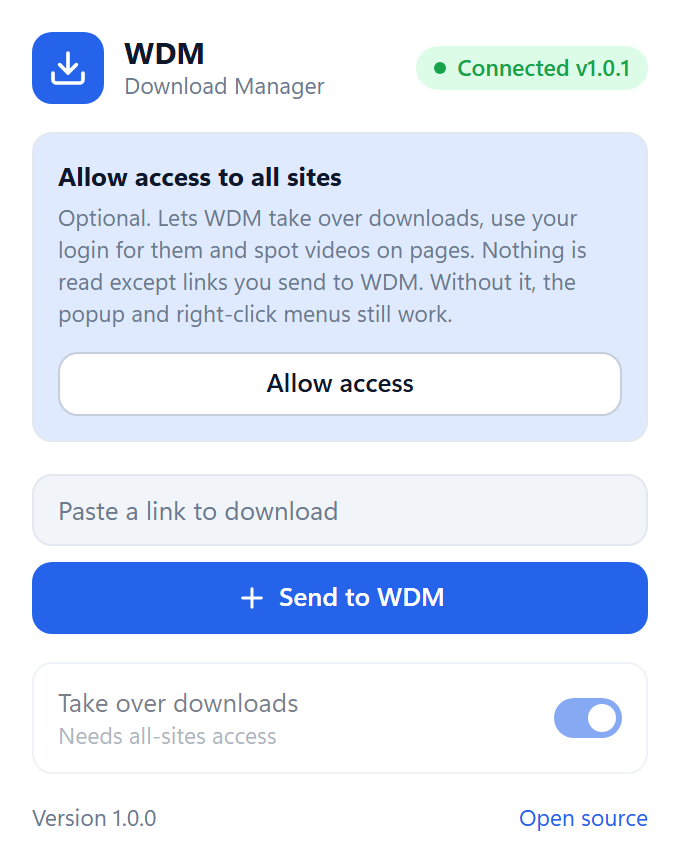
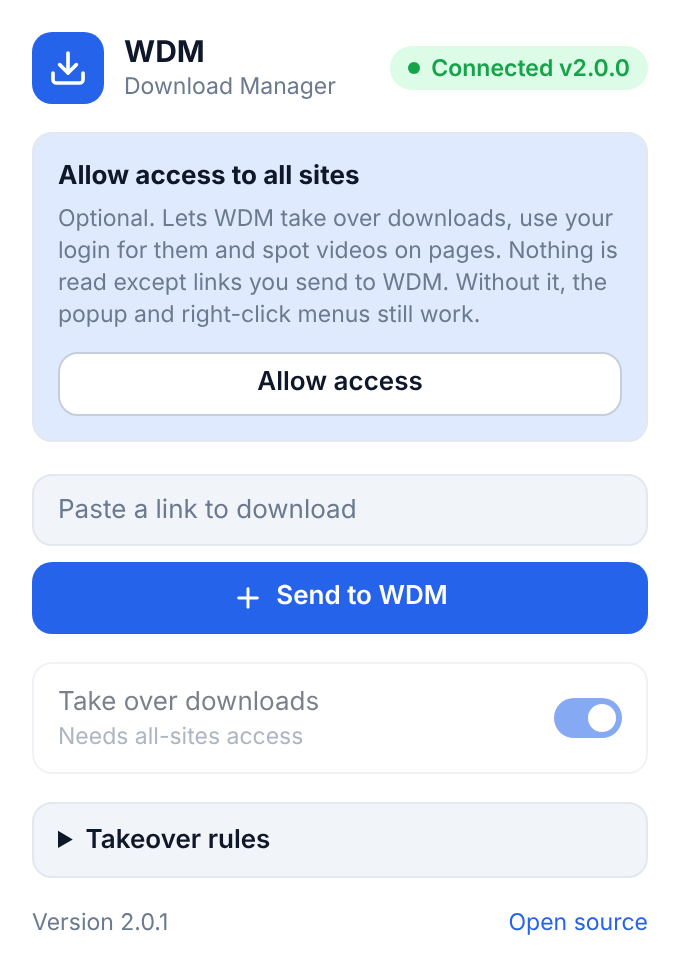
store media: takeover-rules screenshot, popup capture script, popup layout fix (extension 2.0.1)
- scripts/make-store-media.ps1: new screenshot set (takeover rules replaces batch), pre-flight check of source images, sizes printed, marquee text
- scripts/capture-extension-screens.mjs: renders the real popup (light/dark) with a mocked chrome API; fails on any popup error
- extension/popup.css: site button wraps long host names (found by rendering the popup), tighter rules spacing
- extension 2.0.1; docs: changelog, store listing history

Claude-Session: https://claude.ai/code/session_01T3Xu32FEzFHvyk3srvDTM6

diff --git a/extension/popup.css b/extension/popup.css
@@ -229,11 +229,12 @@ body.welcome .access { border-color: var(--accent); }
 .rules > summary { padding: 9px 12px; cursor: pointer; font-weight: 600; list-style-position: inside; }
 .rules > summary:focus-visible { outline: 2px solid var(--accent); outline-offset: 1px; border-radius: 10px; }
 .rules-body { padding: 0 12px 12px; }
-.lbl { display: block; margin: 10px 0 4px; font-size: 11.5px; color: var(--text-muted); }
-.rules .field { background: var(--bg); }
+.lbl { display: block; margin: 8px 0 3px; font-size: 11.5px; color: var(--text-muted); }
+.rules .field { height: 32px; background: var(--bg); }
 .rules-actions { display: flex; gap: 8px; margin-top: 12px; }
 .rules-actions .btn { flex: 1; margin-top: 0; }
 .hint { margin: 8px 0 0; font-size: 11px; color: var(--text-muted); }
 #rulesMsg:empty { display: none; }
 #siteBtn[hidden] { display: none; }
-#siteBtn { width: 100%; margin-top: 0; }
+/* the label ("Never take over downloads from <host>") can be long: let it wrap instead of overflowing a fixed height */
+#siteBtn { width: 100%; height: auto; min-height: 32px; margin-top: 0; padding: 6px 10px; white-space: normal; line-height: 1.3; }

diff --git a/store/chrome/listing.md b/store/chrome/listing.md
@@ -39,7 +39,7 @@ Privacy policy: https://github.com/md-anamul-hasan/wdm/blob/master/docs/PRIVACY.
 
 **Icon**: `extension/icon128.png` (128x128)
 
-**Screenshots** (1280x800, up to 5): `screenshot-1-popup.png`, `screenshot-2-optional-access.png`, `screenshot-3-site-grabber.png`, `screenshot-4-main-window.png`, `screenshot-5-batch.png` (regenerate all store images with `scripts\make-store-media.ps1`)
+**Screenshots** (1280x800, up to 5): `screenshot-1-popup.png`, `screenshot-2-takeover-rules.png`, `screenshot-3-optional-access.png`, `screenshot-4-site-grabber.png`, `screenshot-5-main-window.png`. Regenerate: `node scripts/capture-extension-screens.mjs` (popup shots, needs Playwright), then `scripts\make-store-media.ps1` (composes all store images; Windows).
 
 **Small promo tile** (440x280): `promo-small-440x280.png`
 
@@ -112,3 +112,4 @@ Bump `version` in `extension/manifest.json` (must be higher than the published o
 | 1.0.0 | First release | all |
 | 1.0.1 | Hand-offs interrupted by the browser suspending the extension are settled on restart (no download stays paused); Firefox manifest declares data collection (not part of the Chrome package). Needs WDM 1.0.2+ on the PC. Permissions unchanged. | Package; description (WDM version); `downloads` and `storage` justifications; test instructions |
 | 2.0.0 | Takeover rules (file types, excluded sites, size limit; "never from this site" button) with a new rules.js; version aligned with WDM 2.0.0. Permissions unchanged. | Package; description; `storage` justification; test instructions |
+| 2.0.1 | Popup layout fix (long site names wrap). Same permissions and features as 2.0.0. **Upload this instead of 2.0.0 if 2.0.0 is not already live.** New screenshot set (takeover rules added, batch dropped). | Package; screenshots |

diff --git a/CHANGELOG.md b/CHANGELOG.md
@@ -1,5 +1,12 @@
 # Changelog
 
+## Unreleased
+
+### Changed
+- Extension 2.0.1 (Chrome Web Store build): the popup's "Never take over downloads from <site>" button wraps long host names instead of overflowing; tighter spacing in the rules section.
+- `scripts/make-store-media.ps1`: store screenshots now show the takeover rules (replacing the batch screenshot), the marquee mentions rules and SHA-256, and the script checks that every source image exists before it clears `store/chrome`.
+- New `scripts/capture-extension-screens.mjs` renders the real popup (light and dark) with Playwright for those screenshots; it also fails on any popup script error.
+
 ## 2.0.0 - 2026-10-30
 
 ### Added
